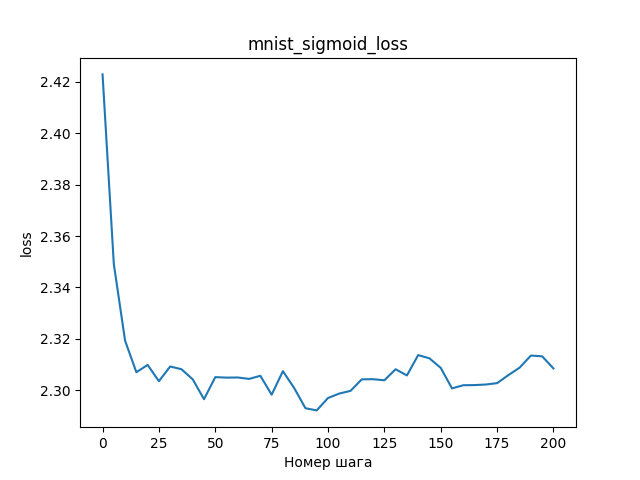
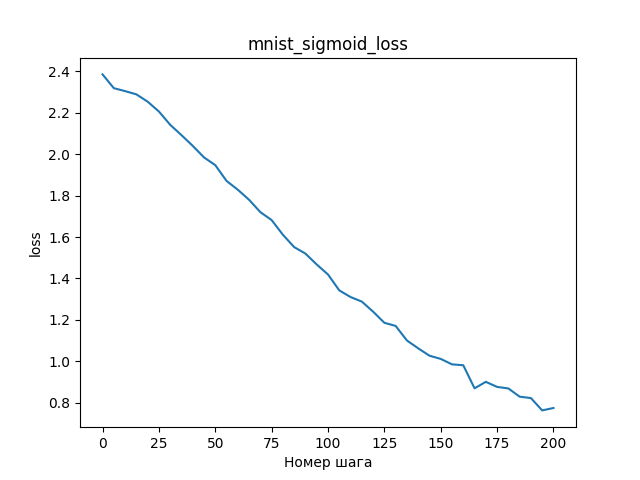
fix #3

diff --git a/3hw.py b/3hw.py
@@ -20,13 +20,14 @@ name = 'mnist'
 df = pd.read_csv("mnist.csv")
 labels = df['label'].values
 data = df.values[:, 1:].reshape(10000, 28, 28)
+data = data.astype(np.float32) / 255
 
 labels = np.eye(10)[labels]
 train_data, test_data, train_labels, test_labels = train_test_split(data, labels, train_size=0.8, test_size=0.2)
 
-acivation_name = 'sigmoid'
+# acivation_name = 'sigmoid'
 # acivation_name = 'tanh'
-# acivation_name = 'ReLu'
+acivation_name = 'ReLu'
 activation = get_activation(acivation_name)
 
 
@@ -47,10 +48,9 @@ X = tf.placeholder(tf.float32, shape=[None, 28, 28])
 x_image = tf.reshape(X, [-1, 28, 28, 1])
 Y = tf.placeholder(tf.float32, shape=[None, 10])
 
-
-conv1 = activation(conv_layer(x_image, 1, 8))
-conv2 = activation(conv_layer(conv1, 8, 8))
-conv_out = activation(conv_layer(conv2, 8, 8))
+conv1 = conv_layer(x_image, 1, 8)
+conv2 = conv_layer(conv1, 8, 8)
+conv_out = conv_layer(conv2, 8, 8)
 
 flattened = tf.reshape(conv_out, [-1, 28 * 28 * 8])
 
